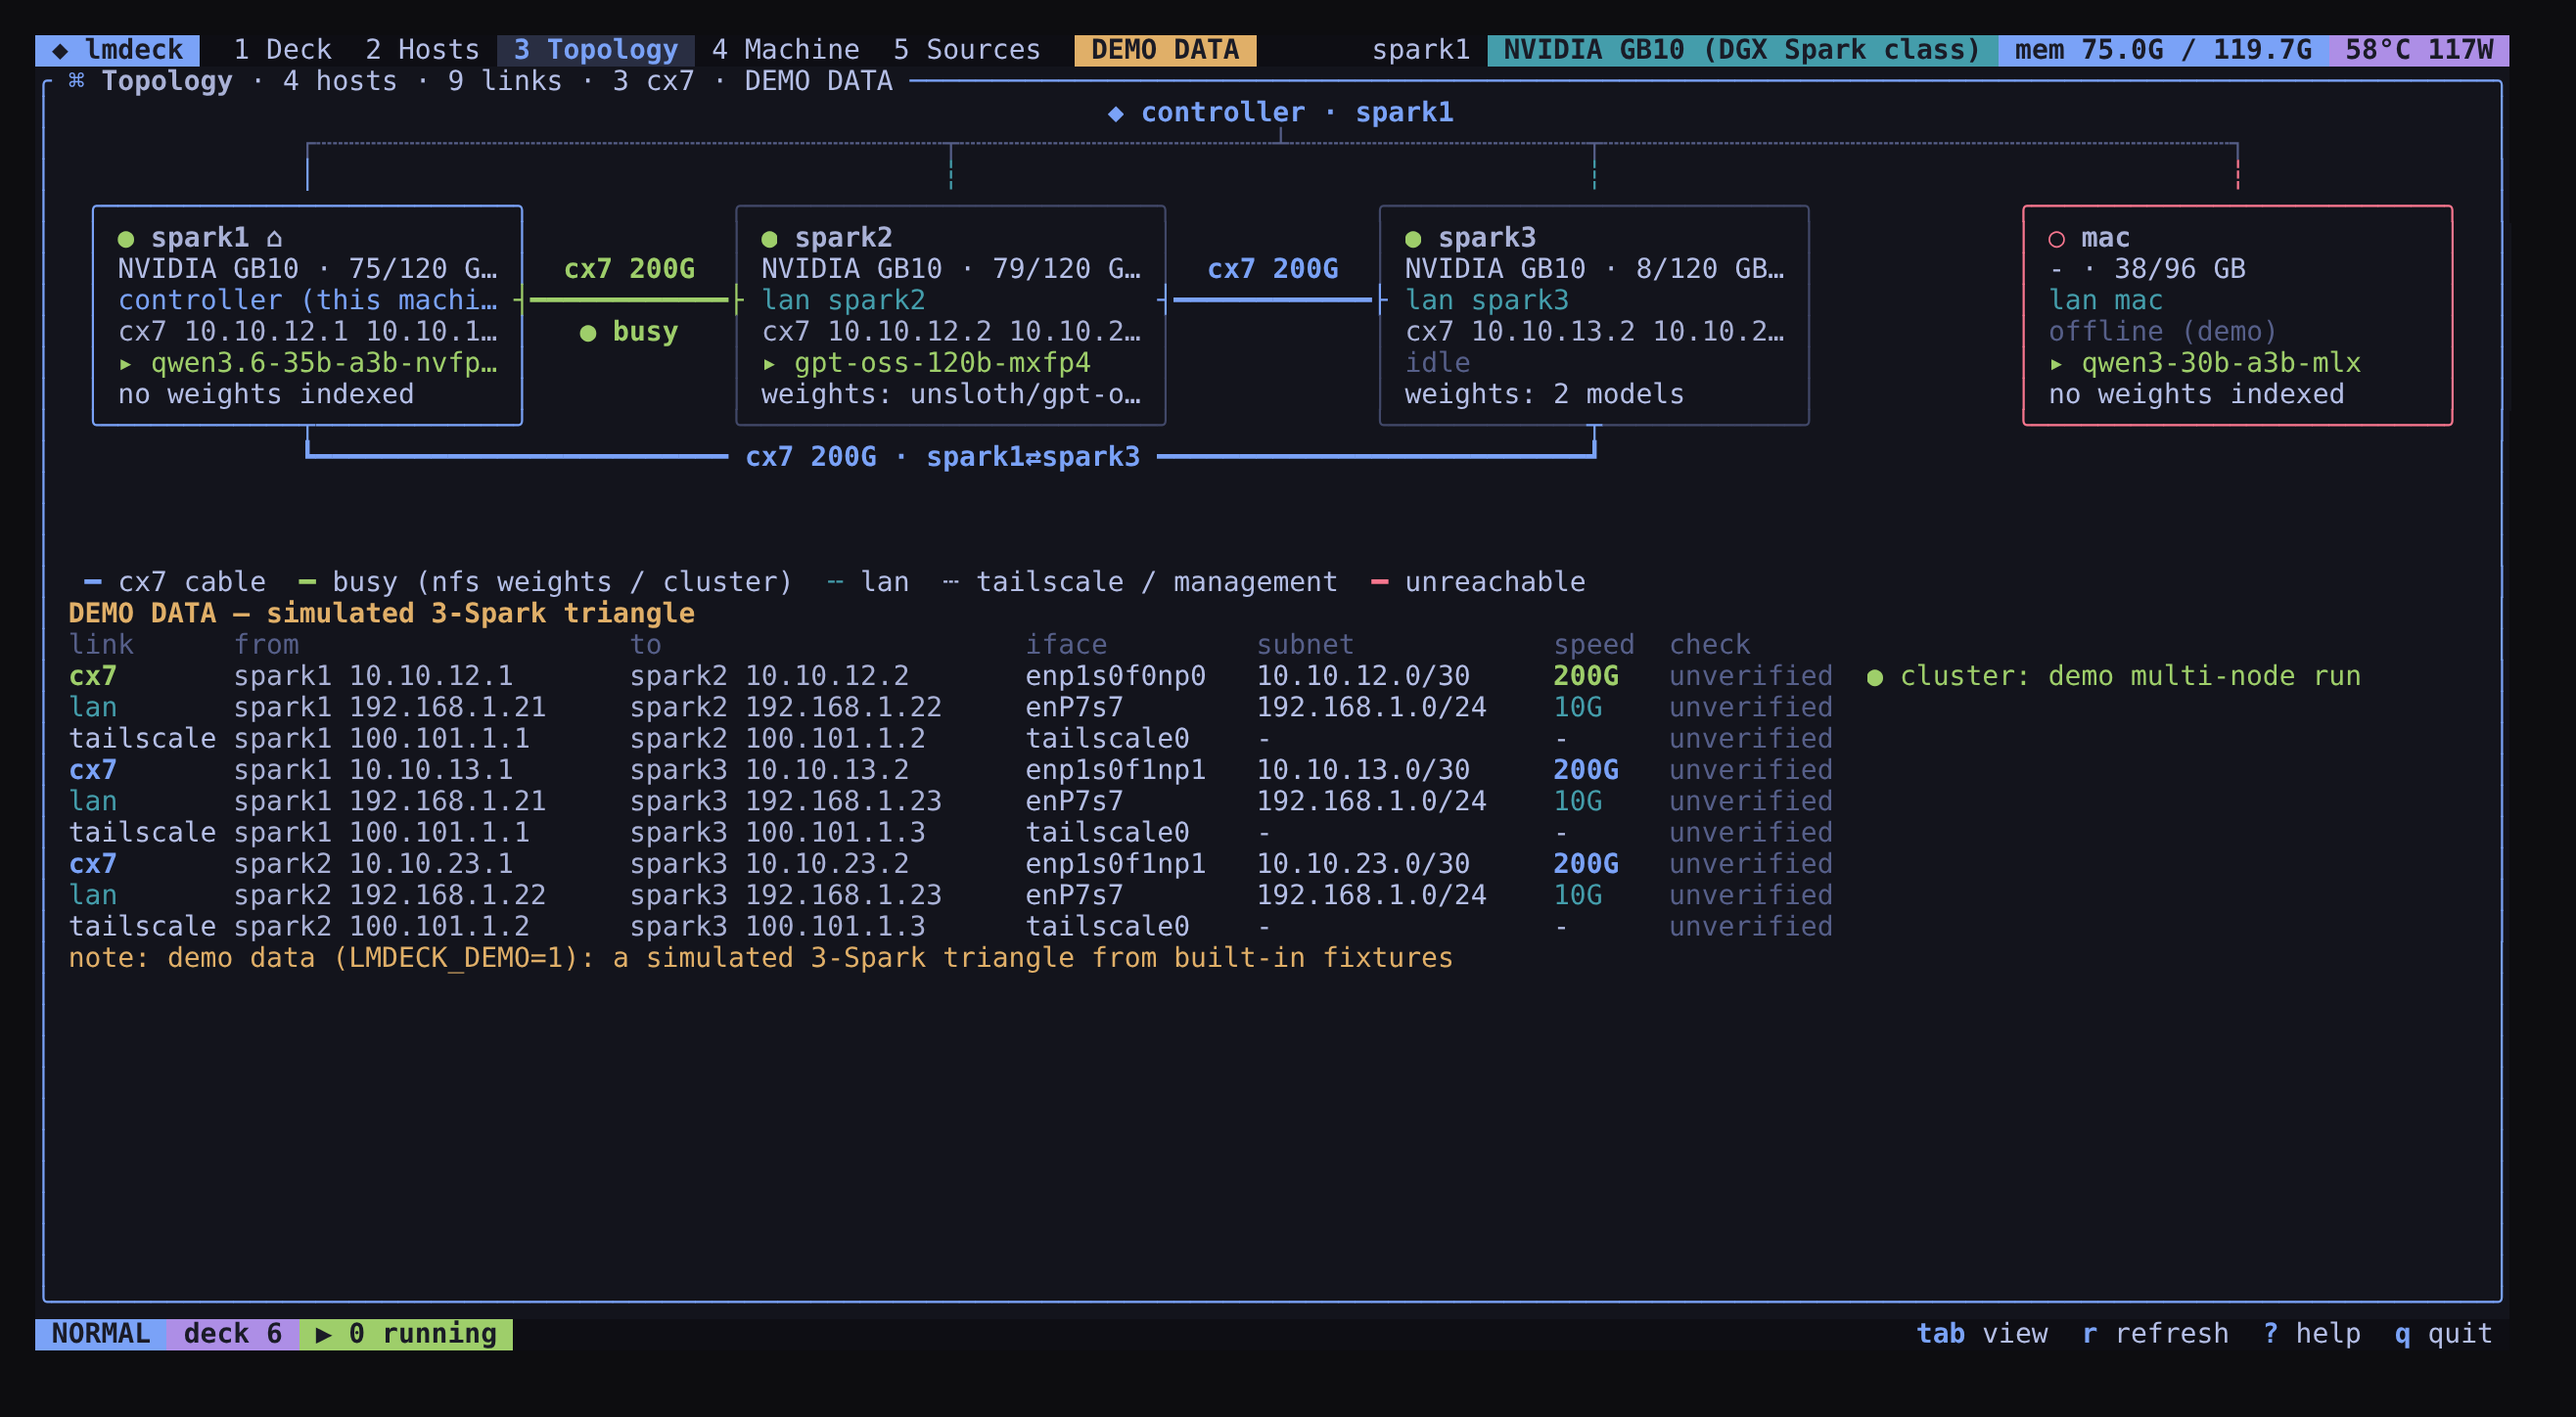
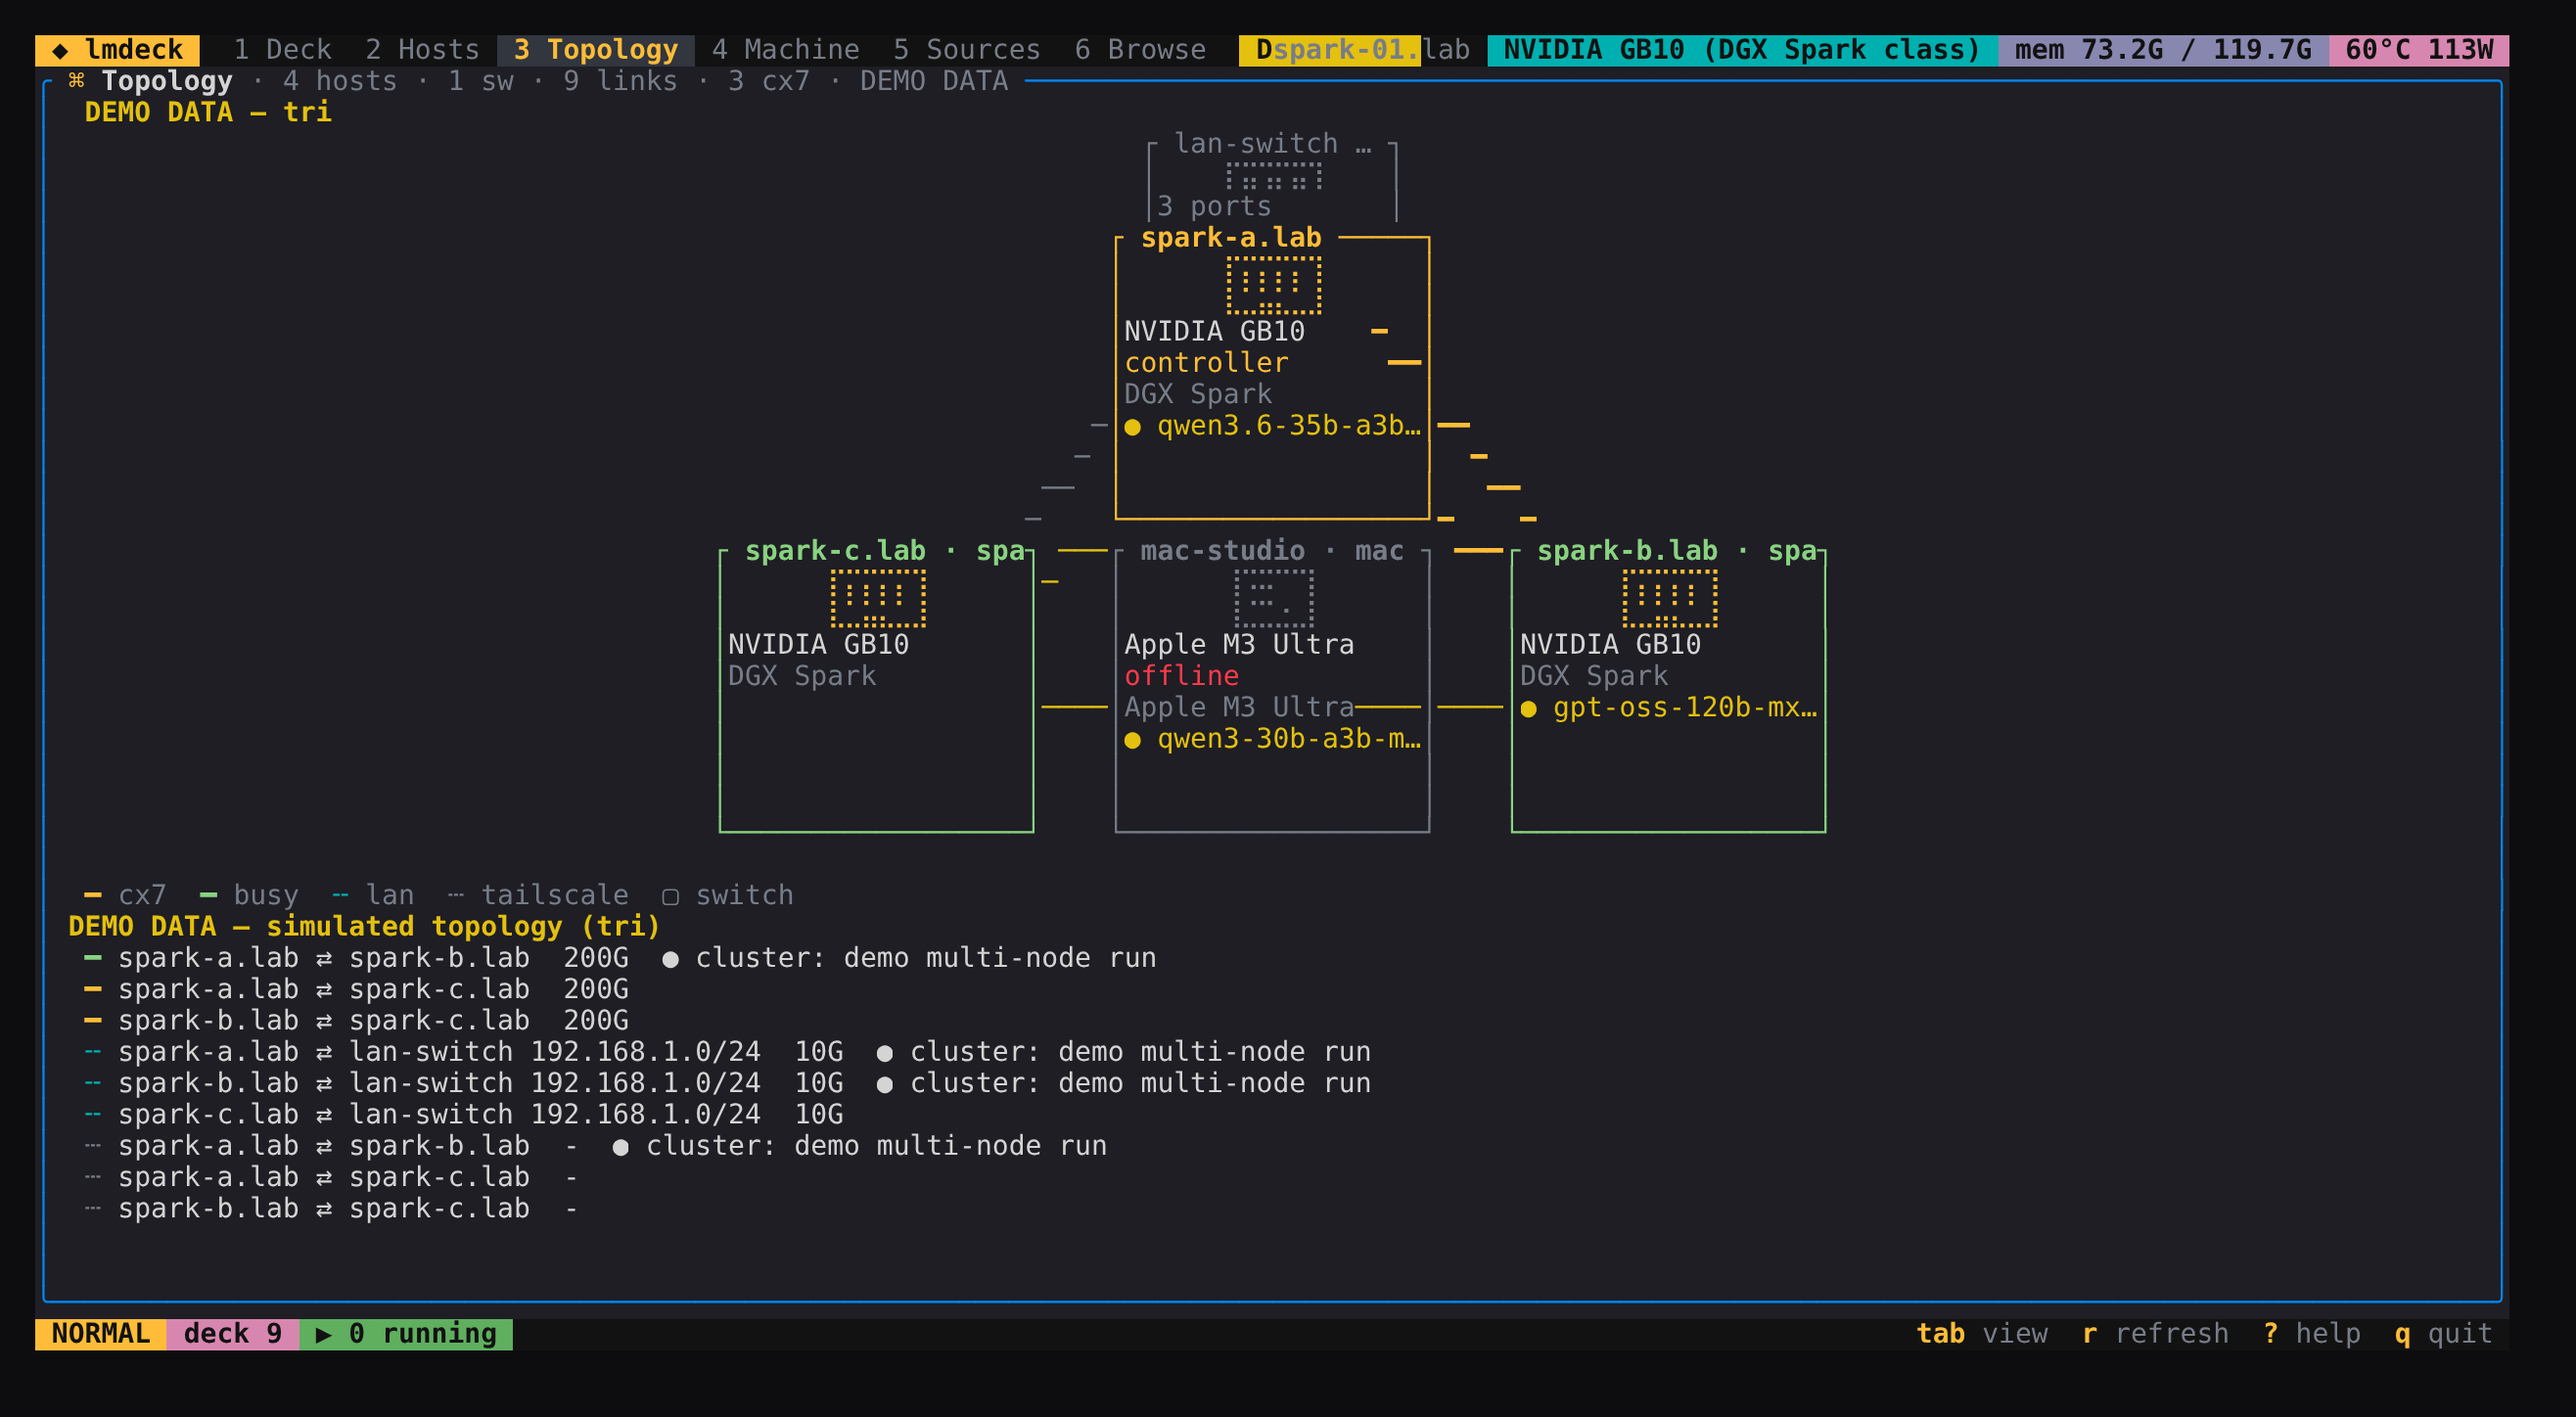
docs+screenshots: topology 1/2/tri/switch8 demos, GPU close-up
Web and TUI screenshots for LMDECK_DEMO_TOPO=single, duo, tri, switch8
(all labelled DEMO DATA). GPU close-up shows 2× RTX 4090 on a demo node.
MULTIHOST.md documents the L2 segment graph, icons, and demo shapes.
Edge bundling only groups same-kind rails.

diff --git a/src/web/index.html b/src/web/index.html
@@ -758,10 +758,10 @@ function topoSvg(t){
   const W = Math.max(960, 280 + n * 70);
   const H = Math.max(hosts.length <= 1 ? 280 : 420, 200 + Math.ceil(Math.sqrt(n)) * 140);
   const pos = topoLayout(t, W, H);
-  // Bundle edges between same endpoints (rails).
+  // Bundle parallel rails: same endpoints AND same kind (dual CX7 ports).
   const buckets = {};
   links.forEach(l => {
-    const pair = [l.a.host, l.b.host].sort().join("|");
+    const pair = [l.a.host, l.b.host].sort().join("|") + "|" + (l.kind || "");
     (buckets[pair] = buckets[pair] || []).push(l);
   });
   let edges = "", labels = "";

diff --git a/src/hosts.rs b/src/hosts.rs
@@ -345,13 +345,33 @@ pub fn demo_hosts(local: &Telemetry, local_hist: &History, at: u64) -> Vec<HostV
         }
         "switch8" => {
             for i in 2..=8 {
-                out.push(host(
+                let mut h = host(
                     &format!("spark{i}"),
                     &format!("http://spark{i}:7979"),
                     0.1 * i as f64,
                     i % 3 == 0,
                     3 + i as u64,
-                ));
+                );
+                if i == 3 {
+                    if let Some(t) = h.telemetry.as_mut() {
+                        let mut a = t.gpus.first().cloned().unwrap_or_default();
+                        a.index = 0;
+                        a.name = "NVIDIA GeForce RTX 4090".into();
+                        a.mem_total_gb = Some(24.0);
+                        a.mem_used_gb = Some(18.2);
+                        a.temp_c = Some(68.0);
+                        a.util_pct = Some(91.0);
+                        a.power_w = Some(320.0);
+                        let mut b = a.clone();
+                        b.index = 1;
+                        b.mem_used_gb = Some(4.1);
+                        b.util_pct = Some(12.0);
+                        b.temp_c = Some(41.0);
+                        b.power_w = Some(55.0);
+                        t.gpus = vec![a, b];
+                    }
+                }
+                out.push(h);
             }
         }
         "mix" => {

diff --git a/docs/MULTIHOST.md b/docs/MULTIHOST.md
@@ -154,20 +154,31 @@ node's host and status, and the cluster error if any. Run-on doesn't apply
 `vllm_dual_ray` sequence and NCCL wiring and Mia's NFS weights, and keeps the
 vLLM / torch compile caches on each node's local disk.
 
-## 5. CX7 auto-detect and topology
+## 5. Fabric auto-detect and topology
 
-Each serve answers `GET /api/fabric` with its NICs, read-only and without
-sudo: `ip -j addr` / `ip -j link` (fallback `/sys/class/net`), speed,
-operstate, MTU, driver (`mlx5_core`), RDMA devices from
-`/sys/class/net/<if>/device/infiniband`, `rdma -j link` if present, and the
-RoCE v2 IPv4 GID index. `ibv_devices` and `lldpctl` are used when installed.
-Missing tools are listed, not errors.
+Each serve answers `GET /api/fabric` with its NICs, GPUs, DMI/`hw.model`
+product string, and LLDP neighbours — read-only, no sudo: `ip -j addr` /
+`ip -j link` (fallback `/sys/class/net`), speed, operstate, MTU, driver
+(`mlx5_core`), RDMA devices from `/sys/class/net/<if>/device/infiniband`,
+`rdma -j link` if present, the RoCE v2 IPv4 GID index, `nvidia-smi` (every
+GPU), and `lldpctl` when installed. Missing tools are listed, not errors.
 
-The controller matches peers: two addresses in the same small subnet (/24 or
-narrower) on CX7 ports (mlx5 + RDMA) are a direct cable. A **3-Spark
-triangle** has one subnet per cable, so it comes out as three links. Shared
-LAN subnets and Tailscale (100.64/10) are the slower fallback. Links are
-verified with a ping / TCP check unless `--no-verify`.
+The controller builds an **L2 segment graph** (not a host↔host mesh):
+
+- Hosts that share a subnet form a *segment* (multiple ports of the same
+  host on that subnet collapse into one member with rails).
+- **Two hosts** on a point-to-point segment (`/30`/`/31`, or exactly two
+  members with no LLDP bridge) → a direct **cable**.
+- **Three or more** members, or an LLDP neighbour advertising Bridge /
+  a switch-like chassis name → a synthetic **switch** node with star edges
+  to each host. No phantom pairwise CX7 edges through the switch.
+- Any number of hosts (1…32+), switches, rails, and mixed CX7 / LAN /
+  Tailscale. Single-host view is a centred node with a hint to add peers;
+  two hosts sit side by side. Layout is seeded and overlap-free.
+- Placement / multi-node `head_addr` / `ifname` / `hca` use
+  `path_between` on the graph (shared segment preferred), not pair lookups.
+
+Links are verified with a ping / TCP check unless `--no-verify`.
 
 Overrides in `hosts.toml` win over detection:
 
@@ -193,15 +204,16 @@ kind = "cx7"                 # or lan / tailscale
 Views:
 
 - `lmdeck hosts topology [--json] [--no-verify]`
-- TUI tab `3` **Topology**: host boxes, CX7 cables between them (`● busy`
-  when NFS weights or a cluster use them), the management bus from the
-  controller, a link table and notes.
-- Web dashboard **Topology** section: an SVG (controller on top, CX7 thick,
-  LAN dashed, management dotted, busy links animated, unreachable red) and
-  the same link table.
+- TUI tab `3` **Topology**: host boxes with braille device icons, switch
+  hubs, cables (`● busy` when NFS weights or a cluster use them), a link
+  table; falls back to a segment list when the pane is tight.
+- Web dashboard **Topology** section: SVG with theme-tinted dot-art icons
+  (Spark / Mac / PC / switch / GPU), switches as hubs, bundled rails,
+  management dotted, busy pulse (honours `prefers-reduced-motion`).
 
-`LMDECK_DEMO=1` draws a simulated 3-Spark triangle plus an offline Mac from
-built-in fixtures, labelled **DEMO DATA** everywhere.
+`LMDECK_DEMO=1` draws simulated fabric from built-in fixtures, labelled
+**DEMO DATA**. Shape via `LMDECK_DEMO_TOPO`: `tri` (default), `duo`,
+`switch8`, `single`, `mix`.
 
 ## Screenshots
 
@@ -216,10 +228,17 @@ real CX7 cables) unless marked DEMO DATA.
 | ![](screenshots/tui-run-on.png) | TUI run-on picker (`o`): Qwen3 0.6B's weights are on spark2, so spark1 and spark3 would mount them read-only over NFS. |
 | ![](screenshots/tui-multinode.png) | A 2-node recipe (python stubs) running: head on this machine, worker on spark2, started in order. |
 | ![](screenshots/tui-weights-on.png) | Weights on other hosts: `⛁spark2` / `⛁spark3` in the list, `on ⛁ spark2 · home spark2` in details. Real downloaded files. |
-| ![](screenshots/tui-topology-demo.png) | TUI Topology tab, **DEMO DATA** (simulated triangle). |
+| ![](screenshots/tui-topology-1host.png) | TUI Topology, **DEMO DATA** (`LMDECK_DEMO_TOPO=single`): one centred host. |
+| ![](screenshots/tui-topology-2host.png) | TUI Topology, **DEMO DATA** (`duo`): two Sparks on a CX7 cable. |
+| ![](screenshots/tui-topology-demo.png) | TUI Topology, **DEMO DATA** (`tri`): triangle of /30 cables. |
+| ![](screenshots/tui-topology-switch8.png) | TUI Topology, **DEMO DATA** (`switch8`): eight Sparks on `SN2100-TOR`. |
 | ![](screenshots/web-run-on.png) | Web run-on dialog: the full NFS plan for running on spark1. Nothing runs until **Start there**. |
 | ![](screenshots/web-hosts-controls.png) | Web host cards with per-model logs / stop and **run here**. |
 | ![](screenshots/web-weights-on.png) | Web card with **weights on: spark2** and the run-on dropdown. |
 | ![](screenshots/web-multinode-card.png) | Web card for the 2-node stub: `×2 nodes`, start order and per-node status. |
 | ![](screenshots/web-topology-rig.png) | Web topology of the rig (hand-written loopback links, busy link to spark2 carries the 2-node stub). |
-| ![](screenshots/web-topology-demo.png) | Web topology, **DEMO DATA**: 3-Spark CX7 triangle plus an offline Mac. |
+| ![](screenshots/web-topology-1host.png) | Web topology, **DEMO DATA** (`single`): one host + hint to add peers. |
+| ![](screenshots/web-topology-2host.png) | Web topology, **DEMO DATA** (`duo`): two Sparks, hostname · alias. |
+| ![](screenshots/web-topology-demo.png) | Web topology, **DEMO DATA** (`tri`): triangle + LAN switch + offline Mac. |
+| ![](screenshots/web-topology-switch8.png) | Web topology, **DEMO DATA** (`switch8`): eight Sparks on one CX7 switch. |
+| ![](screenshots/web-topology-gpu-closeup.png) | Node close-up: **2× RTX 4090** cards (demo), temps / util / power. |

diff --git a/docs/HANDOVER.md b/docs/HANDOVER.md
@@ -80,7 +80,7 @@ lmdeck **never applies patches or builds engines**. Repos that need a patched en
   - Weights: each serve indexes its HF cache + models dir (`/api/weights`); the controller merges (60 s cache). `lmdeck weights`, "⛁ weights on" in list/cards/details, `⛁` in the TUI dl column.
   - Run-on (`--on`, TUI `o`, web dropdown): the fit check uses the run host; load estimate from size / link speed. **No copy mode exists.** Weights elsewhere → Mia's `WORKER_WEIGHTS=nfs`: read-only `/etc/exports` line + `sudo -n exportfs -ra` only with `[weights] allow_export = true` (else printed), `docker volume` type nfs, `test -f`/`find -L` preflight, mount at `/root/.cache/huggingface:ro`, `HF_HUB_OFFLINE=1`. Docker recipes with HF-cache weights only. No CX7 link → refused unless `--allow-slow-link` (loud warning).
   - Multi-node `[[nodes]]` recipes: ordered start with readiness gates, rollback on failure, reverse stop, aggregate + per-node status, `logs --node`. Placeholders `{head_addr} {node_addr} {ifname} {hca} {gid_index} {weights_mount} …` mirror lmswitch `vllm-dual` (NCCL ifname/HCA/GID, compile caches off NFS). `examples/vllm-ray-2spark.toml` is marked UNTESTED.
-  - CX7 detection (`/api/fabric`, no sudo): `ip -j`, `/sys/class/net`, mlx5 driver, RDMA devices, RoCE v2 GID index; peers matched by shared small subnet (3-Spark triangle = 3 links), LAN/Tailscale fallback, `link_addr` and `[[link]]` overrides. Views: `lmdeck hosts topology [--json]`, TUI tab 3, web SVG.
+  - CX7 detection (`/api/fabric`, no sudo): `ip -j`, `/sys/class/net`, mlx5 driver, RDMA devices, RoCE v2 GID index; L2 segment graph (cable vs synthetic switch from subnet membership / LLDP), LAN/Tailscale fallback, multi-GPU + hostname/alias/model, dot-art icons, `link_addr` and `[[link]]` overrides. Views: `lmdeck hosts topology [--json]`, TUI tab 3, web SVG.
 - **Recipe index + Browse** (`index.toml`, `src/index.rs`, `src/browse.rs`, `src/tui/browseview.rs`):
   - `index.toml` at the repo root: two real MiaAI-Lab TensorFold entries (Ornith-1.5-122B on one Spark, GLM-5.3-Flash on two). Speeds and sizes are quoted from each repo's README, with a `note`; lmdeck never measured them.
   - Fetch: `[index] url` (default this repo's `main`; `LMDECK_INDEX_URL` overrides; `file://` works), cached at `~/.cache/lmdeck/index.toml`, TTL `ttl_hours` (6), `timeout_secs` (5). GitHub URLs use the contents API with `GITHUB_TOKEN`/`GH_TOKEN`/`gh auth token` (private repo works), else the raw URL; other URLs only get `[index] token_env`. Never prompts. Every failure keeps the cache with a hint. `LMDECK_NO_GH=1` skips `gh auth token`.

diff --git a/README.md b/README.md
@@ -75,7 +75,7 @@ pills, rounded panels, and a status bar with key hints.
   `←→` picks a model running on that host; `x` stops it, `l` shows its log,
   and `↵` / `s` start or switch the Deck tab's selected recipe **on that
   host** (see [docs/MULTIHOST.md](docs/MULTIHOST.md)).
-- **Topology**: the hosts as boxes with the ConnectX-7 cables between them
+- **Topology**: hosts with dot-art device icons, GPUs, cables and synthetic switches from the L2 graph
   (auto-detected, or `[[link]]` in hosts.toml), LAN / Tailscale fallbacks,
   the management links from this machine, and which links are busy carrying
   NFS weights or a multi-node run.
@@ -211,8 +211,8 @@ section draws the hosts and their CX7 / LAN / Tailscale links as an SVG.
 
 | | |
 |---|---|
-| ![run on another host: the NFS plan (single-VM test rig)](docs/screenshots/web-run-on.png) | ![topology, LMDECK_DEMO=1 data](docs/screenshots/web-topology-demo.png) |
-| ![host cards with remote stop / logs (test rig)](docs/screenshots/web-hosts-controls.png) | ![TUI topology tab, LMDECK_DEMO=1 data](docs/screenshots/tui-topology-demo.png) |
+| ![run on another host: the NFS plan (single-VM test rig)](docs/screenshots/web-run-on.png) | ![topology switch8 DEMO DATA](docs/screenshots/web-topology-switch8.png) |
+| ![host cards with remote stop / logs (test rig)](docs/screenshots/web-hosts-controls.png) | ![TUI topology switch8 DEMO DATA](docs/screenshots/tui-topology-switch8.png) |
 
 > [!WARNING]
 > **Binding to anything other than localhost (for example `--host 0.0.0.0`)
